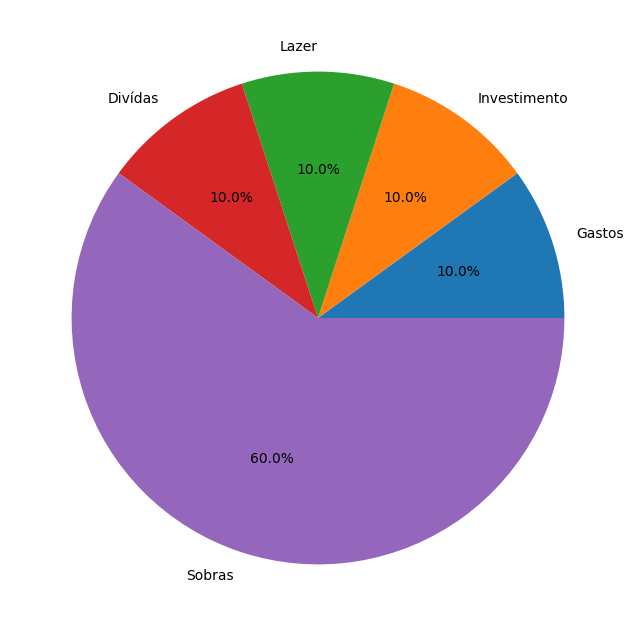
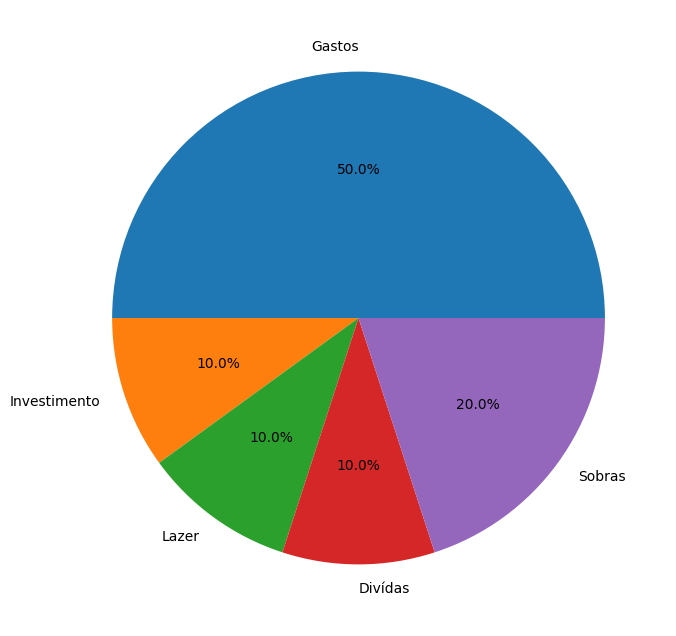
feat: integração com API financeira

diff --git a/templates/resultado.html b/templates/resultado.html
@@ -16,6 +16,7 @@
 
 <img src="{{ url_for('static', filename='grafico2.png') }}">
 
+<h2>Cotação do dólar hoje: R$ {{ cotacao }}</h2>
 {% endif %}
 
 {% if erro %}

diff --git a/main.py b/main.py
@@ -1,8 +1,20 @@
 from flask import Flask, request, render_template
 import matplotlib.pyplot as plt
+import requests
 
 
 app = Flask(__name__)
+
+def pegar_cotacao():
+    url = "https://economia.awesomeapi.com.br/json/last/USD-BRL"
+
+    resposta = requests.get(url)
+
+    dado = resposta.json()
+
+    dolar = dado['USDBRL']['bid']
+
+    return round(float(dolar), 2)
 
 def grafico(renda, gastos, investimento, lazer, dividas, sobra):
     """Função para gerar o gráfico de controle financeiro atual"""
@@ -56,7 +68,8 @@ def resultado():
         if calcular_sobra(renda, gastos, investimento, lazer, dividas) < 0:
             return render_template("resultado.html", erro="Seus gastos ultrapassam sua renda")
         
-        return render_template("resultado.html", grafico=True, grafico2=True)
+        cotacao = pegar_cotacao()
+        return render_template("resultado.html", grafico=True, grafico2=True, cotacao=cotacao)
     except Exception as e:
         print(e)
         return render_template("resultado.html", erro=str(e))

diff --git a/testes/testes_financeiro.py b/testes/testes_financeiro.py
@@ -1,4 +1,5 @@
 from main import calcular_sobra
+import requests
 
 def test_sobra_correta():
     sobra = calcular_sobra(1000, 200, 200, 100, 100)
@@ -7,3 +8,14 @@ def test_sobra_correta():
 def test_sobra_negativa():
     sobra = calcular_sobra(500, 300, 300, 100, 100)
     assert sobra < 0
+
+
+def test_api_dolar():
+    resposta = requests.get(
+        "https://economia.awesomeapi.com.br/json/last/USD-BRL"
+    )
+
+    dado = resposta.json()
+
+    assert resposta.status_code == 200
+    assert 'USDBRL' in dado